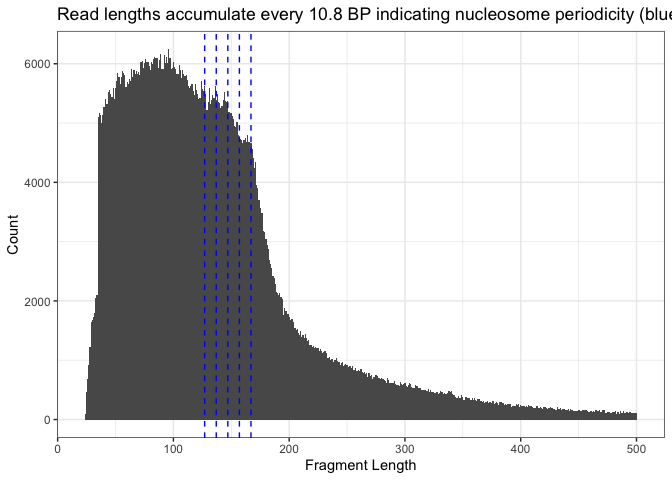
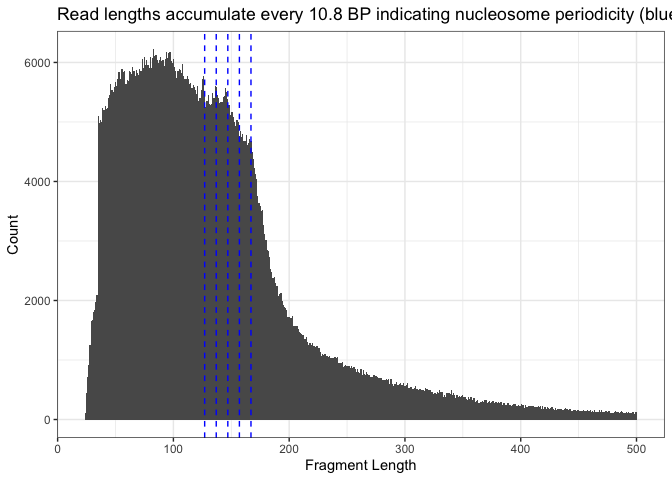
added table preview of peaks.bed

diff --git a/cfDNA_to_mtx/mcf7_mtx_file.md b/cfDNA_to_mtx/mcf7_mtx_file.md
@@ -173,12 +173,12 @@ knitr::kable(head(barcode_ref_df), "simple", caption="Table: barcode_ref")
 
 | barcode_ref      |
 |:-----------------|
-| CACAGCCGTTAGACCA |
-| CTGCCATCGCTGCATC |
-| GATCCATTTGCGGCTA |
-| TTGACTGAACTCAGAT |
-| ATCTTGGGACCTGGAA |
-| ATCCGGGCGTACAGCA |
+| CGTAGTTAAAGGATTC |
+| GATTTATGTGAAGGCG |
+| GTGTCAGATTTCGTGA |
+| GCCTGCGACCTGCCGT |
+| TCGTGGAACGATAGTT |
+| TGCCACCTTATTAATA |
 
 Table: barcode_ref
 
@@ -194,6 +194,21 @@ peaks_out_gzfile = paste0(proj_dir, "/data/data_alexis/mcf7_noTx_uniq_comb_pe/fe
 
 peaks_df = data.table(cfdna_peak_df[,1:3])
 
+knitr::kable(head(peaks_df), "simple", caption="Table: peaks_df")
+```
+
+| V1    |    V2 |    V3 |
+|:------|------:|------:|
+| chr11 | 60260 | 60415 |
+| chr11 | 60860 | 61032 |
+| chr11 | 61108 | 61278 |
+| chr11 | 61176 | 61350 |
+| chr11 | 61460 | 61602 |
+| chr11 | 62136 | 62279 |
+
+Table: peaks_df
+
+``` r
 # write out the file
 con <- file(peaks_out_file,'wt')
 
@@ -232,7 +247,7 @@ iterate_peaks_file(peaks_df, con)
 ```
 
     ## [1] 1
-    ## Time difference of 9.858561 secs
+    ## Time difference of 7.338547 secs
 
 ``` r
 curr_df = NA

diff --git a/cfDNA_to_mtx/GM_0HR_mtx_file.md b/cfDNA_to_mtx/GM_0HR_mtx_file.md
@@ -99,7 +99,7 @@ gg = ggplot(cfdna_peak_df[subsample_idx,], aes(x=diff)) +
         geom_vline(aes(xintercept=127),
             color="blue", linetype="dashed", size=0.5) +
         theme_bw() + labs(x ="Fragment Length", y = "Count") +
-        ggtitle("Read lengths accumulate every 10.8 BP indicating nucleosome periodicity (blue lines are every 10BP)")
+        ggtitle("Read lengths accumulate every 10.8 BP indicating nucleosome periodicity \n(blue lines are every 10BP)")
 gg
 ```
 
@@ -173,12 +173,12 @@ knitr::kable(head(barcode_ref_df), "simple", caption="Table: barcode_ref")
 
 | barcode_ref      |
 |:-----------------|
-| ATCATTGTGGATCGGT |
-| GCCAGATAGGGGGCTT |
-| TCTCTTGAATCATTAC |
-| TCCAGGTAGTCACCCA |
-| AATGCTGGATGTCGGC |
-| AGTCGCCAAAAGCCAT |
+| TCCGAAACCCACACTG |
+| AGCTGACTATCCGAAT |
+| AGGCGAGGACTCGATG |
+| CTTGAAAGGCTAGTGG |
+| CTAAAAAAGACGTTTC |
+| GTTCTATGATTGGGCC |
 
 Table: barcode_ref
 
@@ -232,7 +232,7 @@ iterate_peaks_file(peaks_df, con)
 ```
 
     ## [1] 1
-    ## Time difference of 2.691835 secs
+    ## Time difference of 2.650561 secs
 
 ``` r
 curr_df = NA
